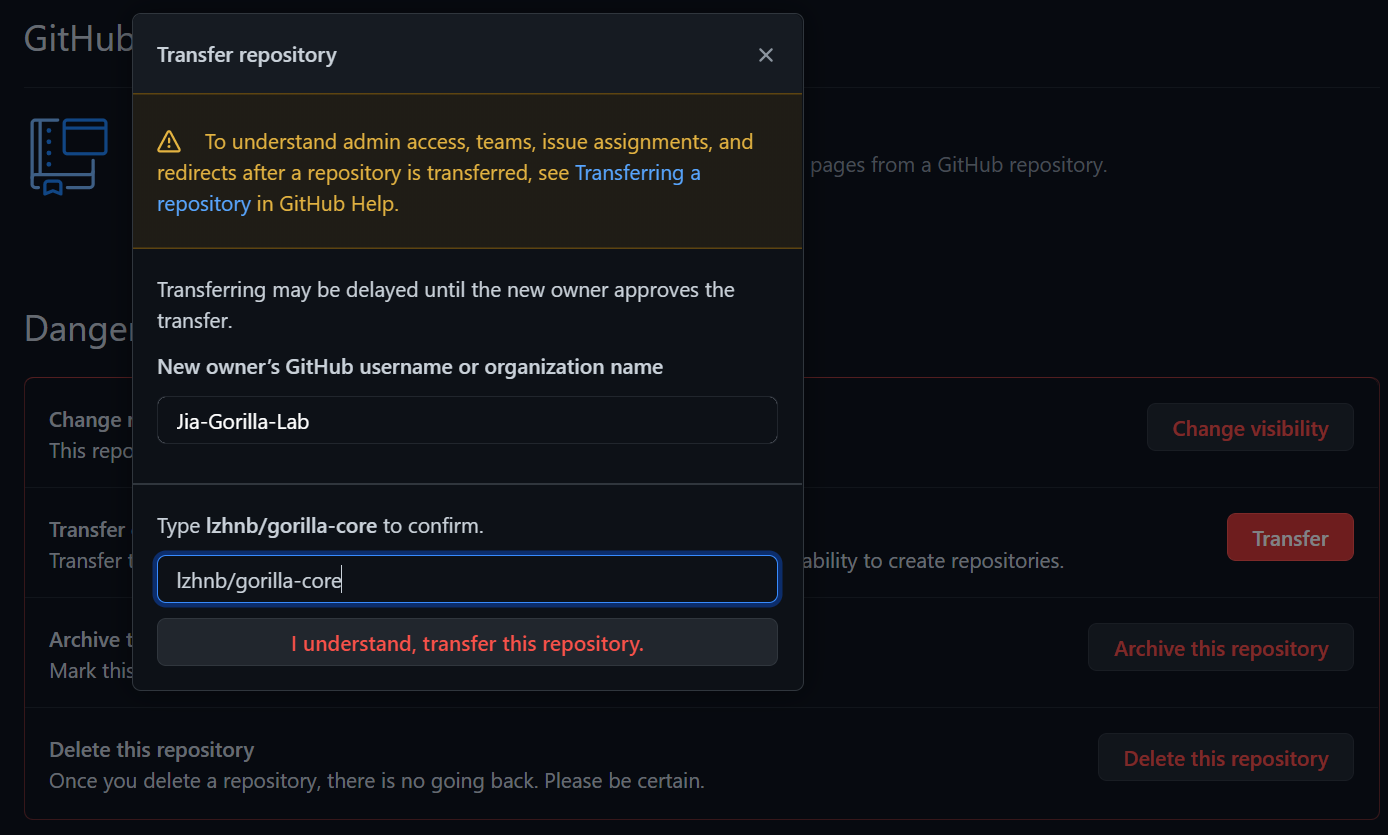
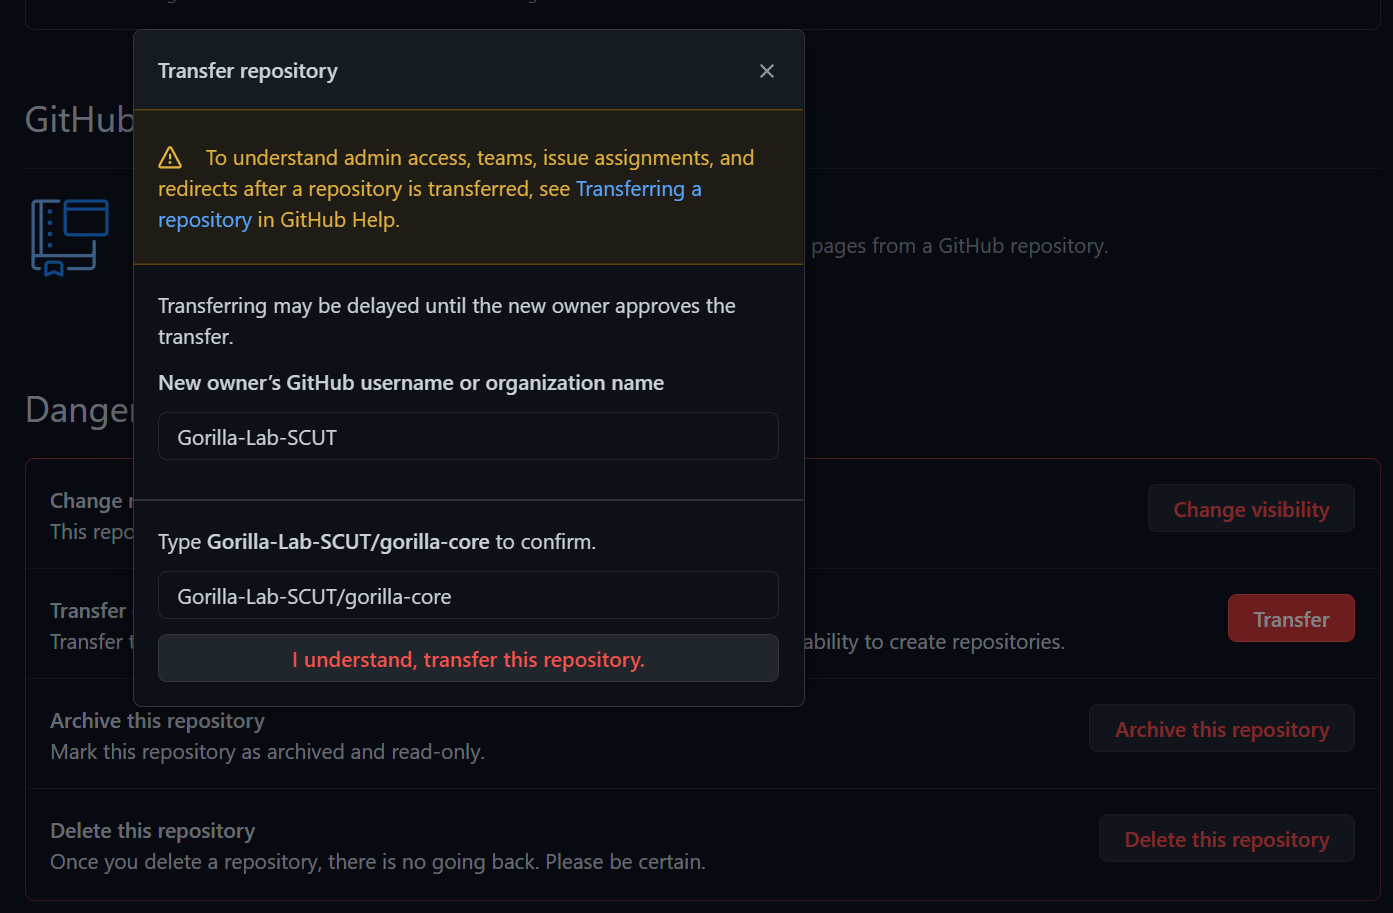
update organization name and image

diff --git a/README.md b/README.md
@@ -11,7 +11,7 @@
 ![bottoms](./images/bottoms.png)
 
 单击后，跳出弹窗，填入以下信息：
-- organization name: **Jia-Gorilla-Lab**
+- organization name: **Gorilla-Lab-SCUT**
 - type confirm: **your repository name**
 
 ![confirm](./images/confirm.png)
